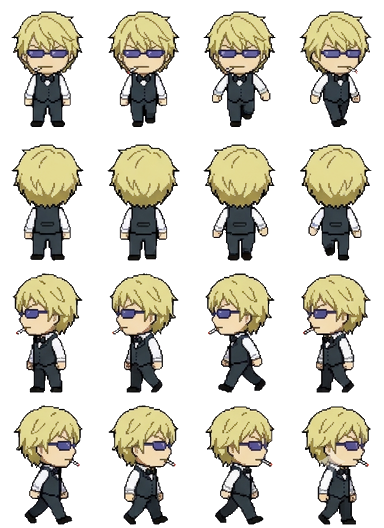
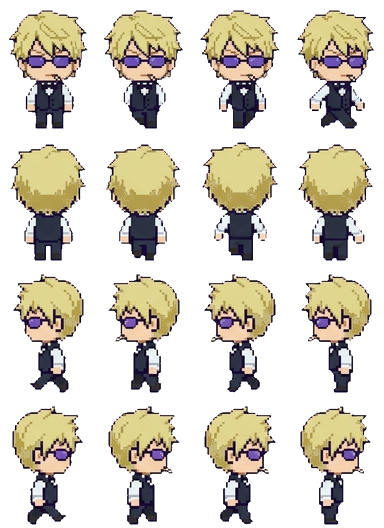
Redraw Heiwajima Shizuo in the shared art style
Claude-Session: https://claude.ai/code/session_01KaPsBYLrtbRfMYNG2xeBCK

diff --git a/docs/app.js b/docs/app.js
@@ -75,7 +75,7 @@ function spr(cat, k, col, sc) {
   return `<div class="clip" style="width:${it[2] * sc}px;height:${it[3] * sc}px;POS"><img class="px" src="assets/decor/${cat}.png" alt="" style="width:${S.sw * sc}px;height:${S.sh * sc}px;margin-left:${-col * S.cw * sc}px;margin-top:${-i * S.ch * sc}px"></div>`;
 }
 const icon = (k, sz) => `<span class="itm" style="width:${sz}px;height:${sz}px"><img class="px" src="assets/ui/items.png" alt="" style="width:${IT.length * sz}px;height:${sz}px;margin-left:${-ITM[k].i * sz}px"></span>`;
-const face = (id, w) => { const s = w / 96; return `<img class="px" src="assets/ch/${id}.webp?v=34" alt="" style="position:absolute;width:${384 * s}px;height:${528 * s}px;left:${-(96 * s - w) / 2}px;top:0;max-width:none">`; };
+const face = (id, w) => { const s = w / 96; return `<img class="px" src="assets/ch/${id}.webp?v=35" alt="" style="position:absolute;width:${384 * s}px;height:${528 * s}px;left:${-(96 * s - w) / 2}px;top:0;max-width:none">`; };
 
 // ---------- 저장 ----------
 let fb = null, user = null, S = null, saveT = null;
@@ -143,7 +143,7 @@ function sleepHTML(id, r, dy) {
   const pos = r.a && r.a[0] === 'bed' ? 'left:3%;bottom:20%' : r.b && r.b[0] === 'bed' ? 'right:3%;bottom:20%' : 'left:calc(50% - 44px);bottom:6%';
   const s = 36 / 96;
   return `<div style="position:absolute;width:88px;height:56px;${pos};z-index:${dy ? 4 : 5};${dy ? `transform:translate(12px,${dy}px)` : ''}"><div style="position:absolute;inset:0;filter:brightness(.22)">
-    <div style="position:absolute;left:11px;top:1px;width:36px;height:50px;overflow:hidden;transform:rotate(-90deg)"><img class="px" src="assets/ch/${id}.webp?v=34" alt="" style="width:${384 * s}px;height:${528 * s}px;max-width:none;margin-top:${-132 * s}px"></div>
+    <div style="position:absolute;left:11px;top:1px;width:36px;height:50px;overflow:hidden;transform:rotate(-90deg)"><img class="px" src="assets/ch/${id}.webp?v=35" alt="" style="width:${384 * s}px;height:${528 * s}px;max-width:none;margin-top:${-132 * s}px"></div>
     <div style="position:absolute;left:19px;top:19px;width:67px;height:29px;border:2px solid var(--ink);border-radius:8px 6px 4px 4px;background:#8ccff5;background-image:repeating-linear-gradient(90deg,transparent 0 10px,rgba(255,255,255,.5) 10px 13px)"></div></div>
     ${dy ? '' : '<span class="emo" style="left:8px;top:-22px;color:#5b6bd6">Z z z</span>'}</div>`;
 }
@@ -153,8 +153,8 @@ function roomHTML(id, o, scale) {
     <div class="floor" style="background-color:${PAL[r.fc][1]};background-image:${tileUrl('floor', r.fl)}"></div>
     ${slot('deco', r.dc, 'left:6%;top:6%')}${slot('furn', r.a, 'left:3%;bottom:20%')}${slot('furn', r.b, 'right:3%;bottom:20%')}${slot('prop', r.pr, 'left:28%;bottom:4%;z-index:2')}
     ${id && o.sleeping && g ? sleepHTML(g, r, -16) : ''}${id && o.sleeping ? sleepHTML(id, r) : ''}${id && o.job ? `<div style="position:absolute;left:50%;top:38%;transform:translateX(-50%);z-index:5;background:#fff;border:3px solid var(--ink);border-radius:10px;padding:6px 10px;font-size:11px;text-align:center;line-height:1.5"><img src="assets/ui/ic_job.png" alt="" style="width:18px;vertical-align:-4px"> ${WORK[id] ? WORK[id][1] : esc(JOB_NAME[id]) + ' 알바 중'}${g ? `<br><small>${esc(nameOf(g))}도 같이</small>` : ''}<br><b id="jobleft">${timeLeft(o.job.until)}</b></div>` : ''}
-    ${id ? `<div class="shadow" id="shd" ${o.sleeping || o.job ? 'style="display:none"' : ''}></div><div class="man" id="man" ${o.sleeping || o.job ? 'style="display:none"' : ''}><img class="px" src="assets/ch/${id}.webp?v=34" alt="${esc(nameOf(id))}"></div><span class="emo" id="emo" hidden></span><span class="mumble" id="mum" hidden></span>` : ''}
-    ${g ? `<div class="shadow" id="gshd" ${hideG}></div><div class="man" id="gman" ${hideG}><img class="px" src="assets/ch/${g}.webp?v=34" alt="${esc(nameOf(g))}"></div><span class="emo" id="gemo" hidden></span><span class="mumble gmum" id="gmum" hidden></span>` : ''}
+    ${id ? `<div class="shadow" id="shd" ${o.sleeping || o.job ? 'style="display:none"' : ''}></div><div class="man" id="man" ${o.sleeping || o.job ? 'style="display:none"' : ''}><img class="px" src="assets/ch/${id}.webp?v=35" alt="${esc(nameOf(id))}"></div><span class="emo" id="emo" hidden></span><span class="mumble" id="mum" hidden></span>` : ''}
+    ${g ? `<div class="shadow" id="gshd" ${hideG}></div><div class="man" id="gman" ${hideG}><img class="px" src="assets/ch/${g}.webp?v=35" alt="${esc(nameOf(g))}"></div><span class="emo" id="gemo" hidden></span><span class="mumble gmum" id="gmum" hidden></span>` : ''}
     ${o.sleeping ? `<div class="night"></div><div class="sleepleft">쿨쿨 · 일어나기까지 <b id="sleepleft">${timeLeft(wakeAt(o)).replace(' 남음', '')}</b></div>` : ''}
   </div>`;
 }
@@ -167,7 +167,7 @@ function meterHTML(o) {
 const ic = (act, img, label, pressed) => `<button class="ic" data-act="${act}" ${pressed ? 'aria-pressed="true"' : ''}><img src="assets/ui/ic_${img}.png?v=2" alt="">${label}</button>`;
 
 let dropStyle = null; const cheat = {};
-const APP_V = 106, COUPONS = { NINOGUYA: 3000 };
+const APP_V = 107, COUPONS = { NINOGUYA: 3000 };
 // 쿠폰 입력 정리: 한글 자판 상태로 친 글자(ㅜㅑㅜㅐ혀ㅛㅁ)도 영어 자판 글자로 바꾸고, 대소문자·띄어쓰기·마침표는 무시해요
 const KEY = { ㄱ: 'r', ㄲ: 'R', ㄴ: 's', ㄷ: 'e', ㄸ: 'E', ㄹ: 'f', ㅁ: 'a', ㅂ: 'q', ㅃ: 'Q', ㅅ: 't', ㅆ: 'T', ㅇ: 'd', ㅈ: 'w', ㅉ: 'W', ㅊ: 'c', ㅋ: 'z', ㅌ: 'x', ㅍ: 'v', ㅎ: 'g',
   ㅏ: 'k', ㅐ: 'o', ㅑ: 'i', ㅒ: 'O', ㅓ: 'j', ㅔ: 'p', ㅕ: 'u', ㅖ: 'P', ㅗ: 'h', ㅘ: 'hk', ㅙ: 'ho', ㅚ: 'hl', ㅛ: 'y', ㅜ: 'n', ㅝ: 'nj', ㅞ: 'np', ㅟ: 'nl', ㅠ: 'b', ㅡ: 'm', ㅢ: 'ml', ㅣ: 'l',
@@ -407,7 +407,7 @@ function startTrip(k) {
   if (tg) lines[1] = `${nameOf(tg)}: ${withHim(sub(pick(GLX(tg).trip), o, c.n), tg)}`;
   const n = (FR[id] || [4, 4, 4, 4])[3], el = document.createElement('div'); el.className = 'tripview';
   el.innerHTML = `<div class="tsay"> </div><div class="tstage" style="background-image:url(assets/travel/${k}.png?v=2)"><div class="tplace">${esc(c.n)}</div>
-    <div class="twalker"><img class="px" src="assets/ch/${id}.webp?v=34" alt=""></div>${tg ? `<div class="twalker tgirl"><img class="px" src="assets/ch/${tg}.webp?v=34" alt=""></div>` : ''}<span class="emo tjoy">♪</span></div>
+    <div class="twalker"><img class="px" src="assets/ch/${id}.webp?v=35" alt=""></div>${tg ? `<div class="twalker tgirl"><img class="px" src="assets/ch/${tg}.webp?v=35" alt=""></div>` : ''}<span class="emo tjoy">♪</span></div>
     <div class="tbar"><i></i></div><button class="btn white tskip" data-tskip="1">바로 돌아오기</button>`;
   document.body.appendChild(el);
   const gimg = el.querySelector('.tgirl img'), gn = tg ? (FR[tg] || [4, 4, 4, 4])[3] : 1;
@@ -636,7 +636,7 @@ setInterval(() => { if (S && user) { tickTime(); save(); } }, 60000);
     if (nv > APP_V && !location.search.includes('u=' + nv)) { location.replace(location.pathname + '?u=' + nv); return; }
   } catch { }
   app.innerHTML = '<div class="start"><div class="egg"><div class="scr"></div></div><div class="note">불러오는 중....</div></div>';
-  const [c, t, f, it, mu, ct, tv, gl, sts] = await Promise.all(['data/chars.json', 'data/talk.json', 'data/frames.json', 'data/items.json', 'data/mumble.json', 'data/countries.json', 'data/travel.json', 'data/girls.json', 'data/sets.json'].map(u => fetch(u + '?v=106').then(r => r.ok ? r.json() : {})));
+  const [c, t, f, it, mu, ct, tv, gl, sts] = await Promise.all(['data/chars.json', 'data/talk.json', 'data/frames.json', 'data/items.json', 'data/mumble.json', 'data/countries.json', 'data/travel.json', 'data/girls.json', 'data/sets.json'].map(u => fetch(u + '?v=107').then(r => r.ok ? r.json() : {})));
   CH = c; CHM = Object.fromEntries(c.map(x => [x.id, x])); TALK = t; FR = f; IT = it; ITM = Object.fromEntries(it.map(x => [x.k, x])); MUM = mu; CTRY = ct; TRV = tv; GL = Array.isArray(gl) ? gl : []; SETS = Array.isArray(sts) ? sts : []; GLM = Object.fromEntries(GL.map(x => [x.id, x]));
   try { await initFirebase(); } catch (e) { console.warn('Firebase 연결 실패, 기기 저장으로', e); fb = null; }
   if (fb) {

diff --git a/docs/index.html b/docs/index.html
@@ -18,6 +18,6 @@
 <main id="app" aria-live="polite"></main>
 <div id="toast" role="status" hidden></div>
 <script src="firebase-config.js?v=3"></script>
-<script type="module" src="app.js?v=106"></script>
+<script type="module" src="app.js?v=107"></script>
 </body>
 </html>
